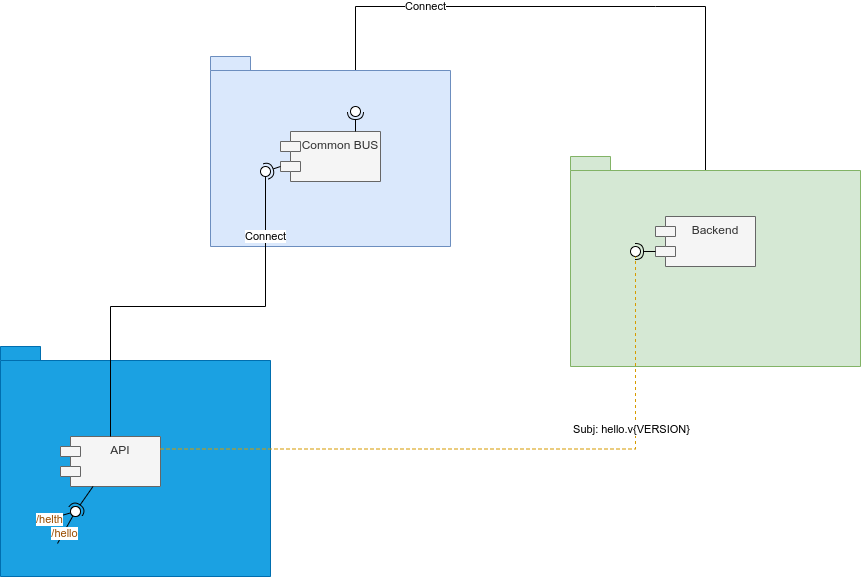
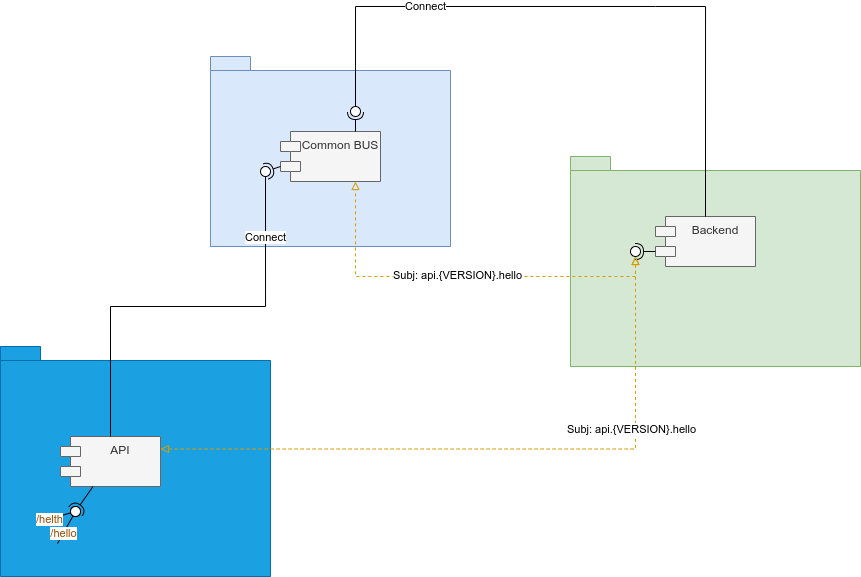
README, добавлен prober

diff --git a/cmd/prober/main.go b/cmd/prober/main.go
@@ -1,0 +1,59 @@
+package main
+
+import (
+	"fmt"
+	"log"
+	"os"
+	"strings"
+	"time"
+
+	"github.com/nats-io/nats.go"
+	"github.com/ovsinc/update-cluster/internal/services/common"
+)
+
+const (
+	name    = "prober"
+	timeout = time.Second
+)
+
+func say(msg string) {
+	log.Printf("[%s] %s", strings.ToUpper(name), msg)
+}
+
+func die(msg string, code int) {
+	say(msg)
+	os.Exit(code)
+}
+
+func main() {
+	subj := common.Config.HelloSubject
+	opts := common.ConfigNats()
+	enc := common.GetEncoder()
+	req := common.HelloRequest{Msg: "hello"}
+	payload, _ := enc.Encode(subj, &req)
+	var resp common.HelloResponse
+
+	nc, err := nats.Connect(common.Config.NatsURL, opts...)
+	if err != nil {
+		die(fmt.Sprintf("connect error: %s", err.Error()), 1)
+	}
+
+	msg, err := nc.Request(subj, payload, timeout)
+	if err != nil {
+		die(fmt.Sprintf("send request error: %s", err.Error()), 1)
+	}
+
+	if err := enc.Decode(subj, msg.Data, &resp); err != nil {
+		die(fmt.Sprintf("response decode error: '%v'", err), 1)
+	}
+
+	if !resp.OK {
+		str := make([]string, 0, len(resp.Errors))
+		for k, v := range resp.Errors {
+			str = append(str, fmt.Sprintf("%s:%s", k, v))
+		}
+		die(fmt.Sprintf("error in response: %s", strings.Join(str, "; ")), 1)
+	}
+
+	die("ok", 0)
+}

diff --git a/internal/services/common/consts.go b/internal/services/common/consts.go
@@ -9,6 +9,8 @@ import (
 	"github.com/kelseyhightower/envconfig"
 )
 
+var APIVersion string
+
 type ConfigType struct {
 	NatsURL string `envconfig:"URL" default:"127.0.0.1"`
 	Port    int    `envconfig:"PORT" default:"8000"`
@@ -25,9 +27,9 @@ type ConfigType struct {
 	BackendShutdown    uint          `envconfig:"BACKEND_SHUTDOWN" default:"10"`
 	BackendShutdownDur time.Duration `ignored:"true"`
 
-	APIVersion   string `envconfig:"API_VERSION" default:"v1"`
 	HelloSubject string `ignored:"true"`
-	QueueGroup   string `envconfig:"QUEUE" default:"ru.example.queue"`
+
+	QueueGroup string `envconfig:"QUEUE" default:"ru.example.queue"`
 }
 
 var Config ConfigType
@@ -44,7 +46,7 @@ func init() {
 	Config.APIShutdownDur = time.Duration(int64(time.Second) * int64(Config.APIShutdown))
 	Config.BackendShutdownDur = time.Duration(int64(time.Second) * int64(Config.BackendShutdown))
 
-	Config.HelloSubject = fmt.Sprintf("hello.%v", Config.APIVersion)
+	Config.HelloSubject = fmt.Sprintf("api.%v.hello", APIVersion)
 
 	data, _ := json.Marshal(&Config)
 	log.Printf("Configuration: %#v\n", string(data))

diff --git a/internal/services/common/nats.go b/internal/services/common/nats.go
@@ -9,16 +9,14 @@ import (
 	"go.uber.org/fx"
 )
 
-func ConnectNats(lc fx.Lifecycle) (*nats.Conn, error) {
-	nc, err := nats.Connect(
-		Config.NatsURL,
-
+func ConfigNats() []nats.Option {
+	return []nats.Option{
 		nats.Name("Agent Responder"),
 
 		// nats.RetryOnFailedConnect(true),
 		nats.MaxReconnects(3),
-		nats.ReconnectWait(1*time.Second),
-		nats.FlusherTimeout(1*time.Second),
+		nats.ReconnectWait(1 * time.Second),
+		nats.FlusherTimeout(1 * time.Second),
 
 		nats.DisconnectErrHandler(func(nc *nats.Conn, err error) {
 			fmt.Printf("Got disconnected! Reason: %q\n", err)
@@ -29,7 +27,11 @@ func ConnectNats(lc fx.Lifecycle) (*nats.Conn, error) {
 		nats.ClosedHandler(func(nc *nats.Conn) {
 			fmt.Printf("Connection closed. Reason: %q\n", nc.LastError())
 		}),
-	)
+	}
+}
+
+func ConnectNats(lc fx.Lifecycle, opts []nats.Option) (*nats.Conn, error) {
+	nc, err := nats.Connect(Config.NatsURL, opts...)
 
 	lc.Append(
 		fx.Hook{

diff --git a/cmd/backend/main.go b/cmd/backend/main.go
@@ -3,6 +3,7 @@ package main
 import (
 	"context"
 	"log"
+	"os"
 	"time"
 
 	"github.com/nats-io/nats.go"
@@ -54,13 +55,21 @@ func run(lifecycle fx.Lifecycle, svc *agent.PubSub) error {
 
 //
 
+func die() { //nolint:deadcode,unused
+	log.Println("[BACKEND] Simulates fail")
+	os.Exit(255)
+}
+
 func main() {
+	// die()
+
 	appCtx := fx.New(
 		// options
 		fx.StartTimeout(common.Config.GracefulStartTimeout),
 		fx.StopTimeout(common.Config.GracefulStopTimeout),
 
 		fx.Provide(
+			common.ConfigNats,
 			common.ConnectNats,
 			newEncoder,
 			newHandlers,

diff --git a/cmd/api/main.go b/cmd/api/main.go
@@ -17,8 +17,6 @@ import (
 )
 
 const (
-	_portEnv    = "API_PORT"
-	_port       = 8000
 	_heath_path = "/health"
 	_api_path   = "/hello"
 	_whoami     = "/"
@@ -101,6 +99,7 @@ func main() {
 		fx.Provide(
 			newApp,
 			newEncoder,
+			common.ConfigNats,
 			common.ConnectNats,
 		),
 

diff --git a/README.md b/README.md
@@ -1,0 +1,38 @@
+# Описание процедуры обновления
+
+## Типы сервисов
+
+Предполагаются несколько типов сервисов:
+
+* По принадлежности
+  * opensource
+  * vendor
+* По зависимости
+  * зависит от
+  * незвисим
+  * требуется для
+* По необходимости ожидания
+  * без ожидания
+  * бережная остановка
+  * [бережный старт] (??)
+
+## Процедура обновления
+
+Процедура обновления в docker swarm предполагает поэтапную работу оркестратора.
+
+Поддерживаются стратегии обновления для сервисов:
+
+* start first
+* stop first
+
+Эти стратегии оказывают влияние на прерывание (stop first) или нет работу сервиса до поднятия обновленного.
+
+Сервисы обновляются/запускаются одновременно! Это нужно учитывать.
+
+Следовательно зависимости между сервисами нужно реализовывать в самих сервисах, например с использованием healthcheck.
+
+Например, в сервис "А" с типом "зависим от Б" можно добавить проверку доступности требуемого сервиса "Б" в helthcheck метод (cli или http).
+
+А в сервисе "Б" тоже нужно добавить самопроверку. Тогда, если что-то случится с сервисом "Б" при обновлении произойдет откат цепочки зависимых сервисов.
+
+Важно не замкнуть круг зависимостей, не получить цикл.
